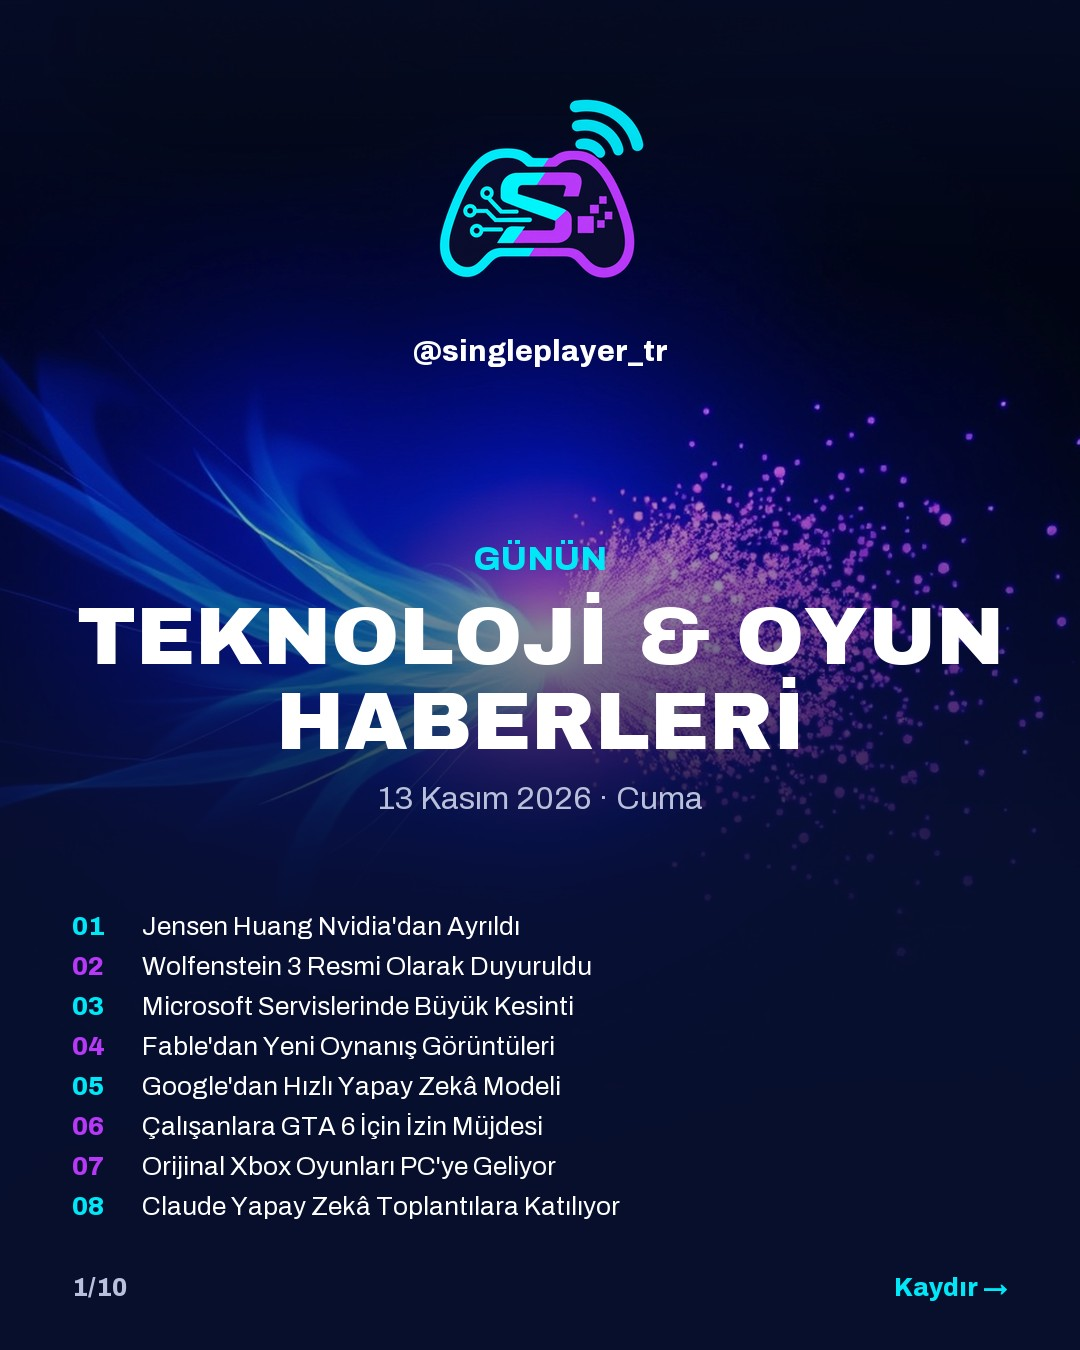
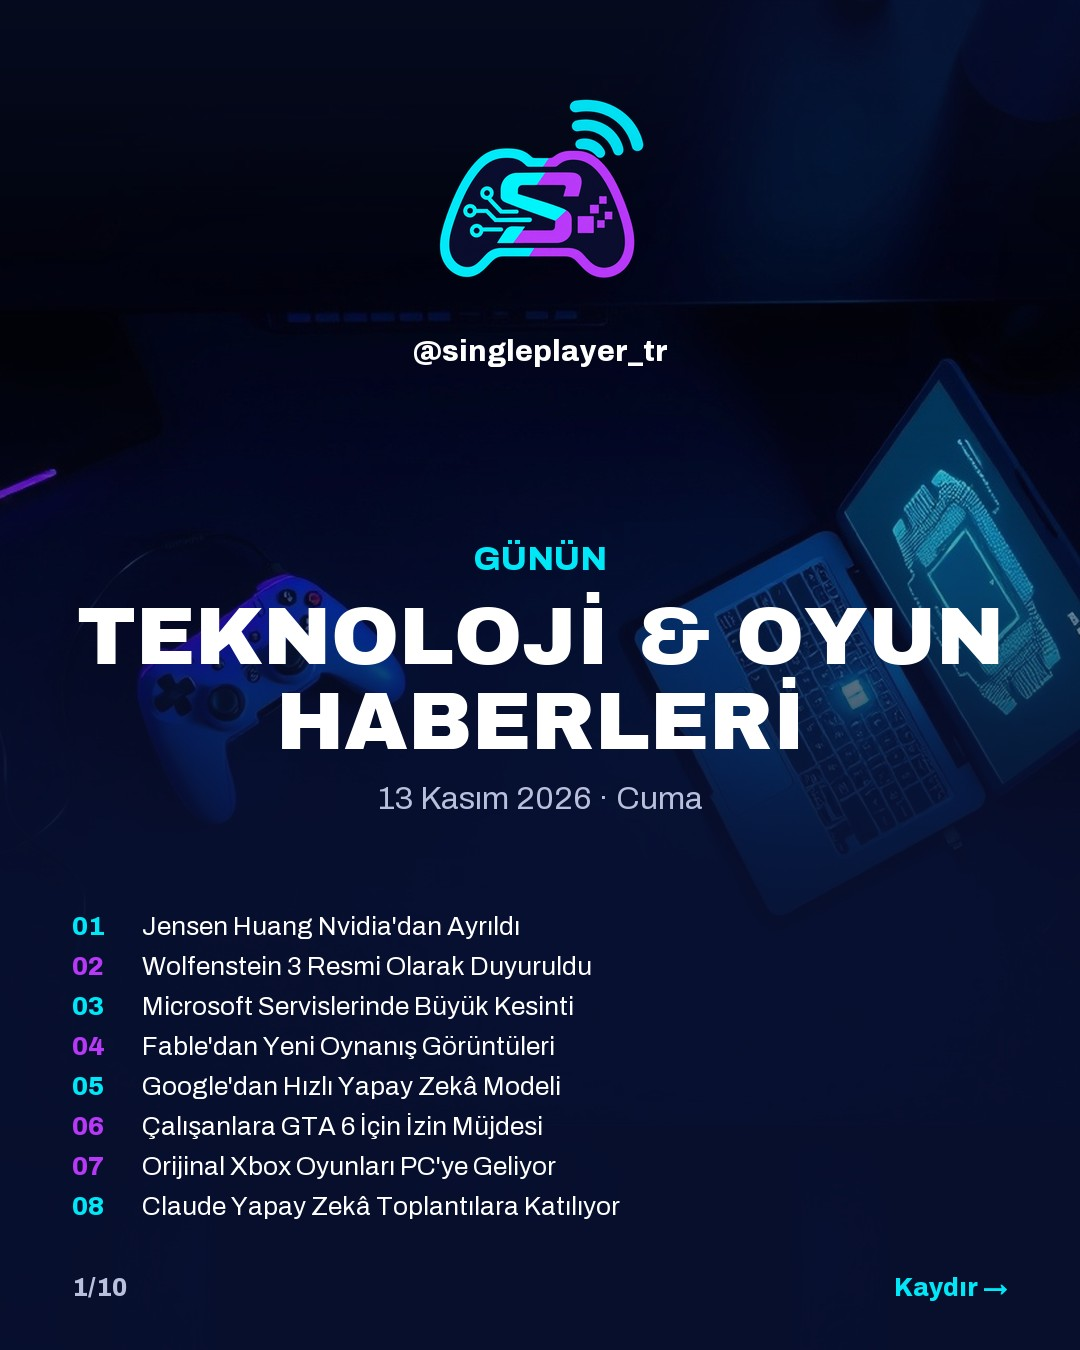
Faz 3 tur 3: konuyla ilgili sahne arka planları, görsel panel üstü alana sığdırılıyor

Changed region(s): [[0.0, 0.1556, 1.0, 0.6222], [0.7639, 0.0933, 0.7944, 0.1244]]

diff --git a/bot/llm_gemini.py b/bot/llm_gemini.py
@@ -343,8 +343,9 @@ def _write_prompt(stories: list[Story], errors: list[str] | None) -> str:
         "slayttakini kelimesi kelimesine tekrar etme, ek bağlam ver. Başlık, numara, emoji, kaynak adı EKLEME.\n"
         "- source_url: o hikâyenin listesindeki linklerden biri, aynen (tercihen en bilgilendirici olan).\n"
         "- category: hikâyenin kategorisi.\n"
-        "- image_prompt: İngilizce, tamamen soyut arka plan (ışık, şekil, parçacık, doku); marka/logo/ürün/"
-        "karakter/kişi/yazı yok; tabela, ekran, vitrin, poster, şehir sokağı yok.\n"
+        "- image_prompt: İngilizce, 40–60 kelime; haberin KONUSUNU anlatan konsept sahne (ilgili nesne, mekân, metafor). "
+        "Soyut desen değil. Marka/logo/tanınabilir ürün/oyun karakteri/kişi/insan figürü/avatar/okunabilir yazı yok; "
+        "takvim, belge, grafik, saat gibi rakam/yazı çıkaran nesneler yok.\n"
         f"- caption_intro ≤ {INTRO_MAX}: GÜNÜN öne çıkanlarını anan 1–2 cümlelik giriş ('haftanın' deme). Haber SAYISI YAZMA.\n"
         f"- hashtags: {HASHTAG_MIN}-{HASHTAG_MAX} adet, '#' ile başlayan, boşluksuz.\n"
         "Kaynak listesi, hashtag ve YZ notunu caption alanlarına EKLEME (sistem ekleyecek).\n"
@@ -526,3 +527,32 @@ def generate_post(
         "items": items,
         "caption": caption,
     }
+
+
+IMAGE_SCHEMA = {
+    "type": "OBJECT",
+    "properties": {"image_prompts": {"type": "ARRAY", "items": {"type": "STRING"}}},
+    "required": ["image_prompts"],
+}
+
+
+def refresh_image_prompts(post: dict, generate: Generator = gemini_generate, model: str | None = None) -> dict:
+    """Mevcut içerikte yalnızca görsel tariflerini yeniden yazar (tasarım denemeleri için)."""
+    model = model or model_name()
+    items = post["items"]
+    listing = "\n".join(
+        f"{n}. [{it['category']}] {it['slide_title']} — {it['slide_text']}" for n, it in enumerate(items, 1)
+    )
+    prompt = (
+        f"Aşağıdaki {len(items)} haber için, AYNI SIRAYLA, birer image_prompt yaz. "
+        "Kurallar sistem talimatındaki image_prompt bölümündedir (konuyu anlatan konsept sahne, 40–60 kelime, "
+        "İngilizce; marka/logo/tanınabilir ürün/karakter/kişi/yazı yok).\n\n" + listing
+    )
+    for _ in range(2):
+        data = _parse_json(generate(model, load_system_prompt(), prompt, IMAGE_SCHEMA))
+        prompts = [str(x).strip() for x in data.get("image_prompts", [])]
+        if len(prompts) == len(items) and all(x and x.isascii() and len(x) <= 600 for x in prompts):
+            for it, ip in zip(items, prompts):
+                it["image_prompt"] = ip
+            return post
+    raise LLMError("Görsel tarifleri yenilenemedi")

diff --git a/bot/cli.py b/bot/cli.py
@@ -81,6 +81,24 @@ def cmd_write(args: argparse.Namespace) -> int:
     from . import telegram
     from .llm_gemini import LLMError, QuotaError, generate_post, model_name
 
+    if args.images_only:
+        from .llm_gemini import refresh_image_prompts
+
+        day_dir = today_dir()
+        path = day_dir / "content.json"
+        post = json.loads(path.read_text(encoding="utf-8"))
+        with console.status("Gemini görsel tariflerini yeniden yazıyor…"):
+            refresh_image_prompts(post)
+        path.write_text(json.dumps(post, ensure_ascii=False, indent=2) + "\n", encoding="utf-8")
+        removed = 0
+        for f in (day_dir / "bg").glob("bg_*.jpg"):
+            f.unlink()
+            removed += 1
+        for n, it in enumerate(post["items"], 1):
+            console.print(f"[cyan]{n}.[/] {it['slide_title']}\n   [dim]{it['image_prompt']}[/]")
+        console.print(f"[dim]{removed} eski arka plan silindi; 'python -m bot render' yenilerini üretecek.[/]")
+        return 0
+
     feeds = config.load_feeds()
     with console.status(f"{len(feeds)} kaynak okunuyor…"):
         result = collect(feeds, hours=args.hours)
@@ -229,6 +247,7 @@ def build_parser() -> argparse.ArgumentParser:
     w = sub.add_parser("write", help="Günün haberlerini (3–8) seç ve Türkçe slayt metinlerini üret")
     w.add_argument("--hours", type=float, default=24, help="zaman penceresi (saat)")
     w.add_argument("--no-mark", action="store_true", help="seçilen haberleri seen.json'a yazma (deneme)")
+    w.add_argument("--images-only", action="store_true", help="bugünkü içerikte yalnızca görsel tariflerini yenile")
     w.set_defaults(func=cmd_write)
 
     r = sub.add_parser("render", help="Arka planları üret ve 7 slaytlık carousel'i oluştur")

diff --git a/bot/composer.py b/bot/composer.py
@@ -172,10 +172,17 @@ class Composer:
             return Image.open(p).convert("RGBA").resize((self.W, self.H), Image.LANCZOS)
         return None
 
-    def _background(self, bg: Image.Image | None, accent: tuple | None) -> Image.Image:
+    def _background(self, bg: Image.Image | None, accent: tuple | None, region_h: int | None = None) -> Image.Image:
+        """Arka plan. region_h verilirse görsel yalnızca üstteki görünür alana sığdırılır
+        (panel düzeninde ana nesne metin panelinin arkasında kalmasın diye)."""
         if bg is None:
             return self.brand_backdrop()
-        img = cover_fit(bg, self.W, self.H)
+        if region_h:
+            canvas = Image.new("RGB", (self.W, self.H), self.c["bg"])
+            canvas.paste(cover_fit(bg, self.W, min(self.H, region_h)), (0, 0))
+            img = canvas
+        else:
+            img = cover_fit(bg, self.W, self.H)
         b = self.d["background"]
         if b.get("tint") == "duotone" and accent:
             img = duotone(img, self.c["bg"], accent, float(b.get("tint_strength", 0.6)))
@@ -302,6 +309,7 @@ class Composer:
             max_py = int(self.H * (1 - d.get("panel_min_ratio", d["panel_ratio"])))
             py = min(max_py, max(min_py, area_bottom - total_h - pad_top))
             area_top = py + pad_top
+            img = self._background(bg, accent, region_h=py + 120)  # görsel panelin hemen altına kadar
             img = self._shade(img, py - 160, py, 0.0, 1.0)
             y_badge = py - badge_h // 2
             y_title = area_top                      # panelde metin yukarıdan akar

diff --git a/prompts/writer_system.md b/prompts/writer_system.md
@@ -32,10 +32,19 @@ yoğunluğuna göre 3 ile 8 arasında değişir; metinlerde haber sayısını as
 - slide_text: en fazla 260 karakter; 2–3 cümle. Ne oldu, kim yaptı, temel ayrıntı (tarih, platform, fiyat — yalnızca kaynakta varsa).
 - why_it_matters: en fazla 120 karakter, tek cümle. Okur için neden önemli: etkisi, sektördeki yeri, kimi ilgilendirdiği.
 - source_name / source_url: verilen listedeki linklerden biri, aynen.
-- image_prompt: İngilizce, soyut/konsept bir arka plan tarifi. Marka, logo, ürün, oyun karakteri,
-  gerçek kişi, yazı, harf, rakam İÇERMEZ. Tabela, ekran, vitrin, poster, şehir sokağı gibi yazı
-  çıkarabilecek sahneler de YOK. Yalnızca ışık, şekil, parçacık, doku ve renk tarif et.
-  Örnek: "abstract flowing neon circuitry over deep indigo gradient, soft volumetric light, minimal, cinematic"
+- image_prompt: İngilizce, HABERİN KONUSUNU anlatan konsept bir sahne (40–60 kelime). Haberi gören biri görselden
+  konuyu tahmin edebilmeli. Haberle ilgili NESNELER, MEKÂNLAR ve METAFORLAR kullan; soyut desen kullanma.
+  - İyi örnekler:
+    - CEO istifası → "an empty leather executive chair in a dim glass boardroom at night, a single glowing computer chip on the polished table"
+    - Bulut servis kesintisi → "a dark server room with rows of racks, red warning lights blinking, unplugged network cables hanging"
+    - Fantastik RPG fragmanı → "a misty medieval village at dusk with crooked stone cottages and lanterns, a dark forest behind it"
+    - Yeni yapay zekâ modeli → "a glowing translucent neural network sphere floating above a desk in a futuristic lab"
+    - Konsol oyunlarının PC'ye gelmesi → "a vintage blank game controller connected by a cable to a sleek modern PC tower on a desk"
+  - YASAK: marka logosu, marka adı, tanınabilir ürün tasarımı (ör. belirli konsol ya da telefon modeli), oyun karakteri,
+    gerçek kişi, insan figürü, yüz, avatar, siluet, figürin, okunabilir yazı, tabela, poster.
+    Rakam ya da yazı çıkarabilecek nesneler de YOK: takvim, belge/kâğıt, grafik, saat, klavye tuşu, menü.
+    Ekran gerekiyorsa "screen glowing with soft abstract light" de.
+  - Nesneler markasız ve genel olsun ("a blank game controller", "an unbranded smartphone").
 
 ## Caption (Instagram açıklaması)
 - caption_intro: 1–2 cümlelik giriş; GÜNÜN öne çıkan konularına değin (paylaşım günlüktür, 'haftanın' deme). Haber sayısı yazma.
